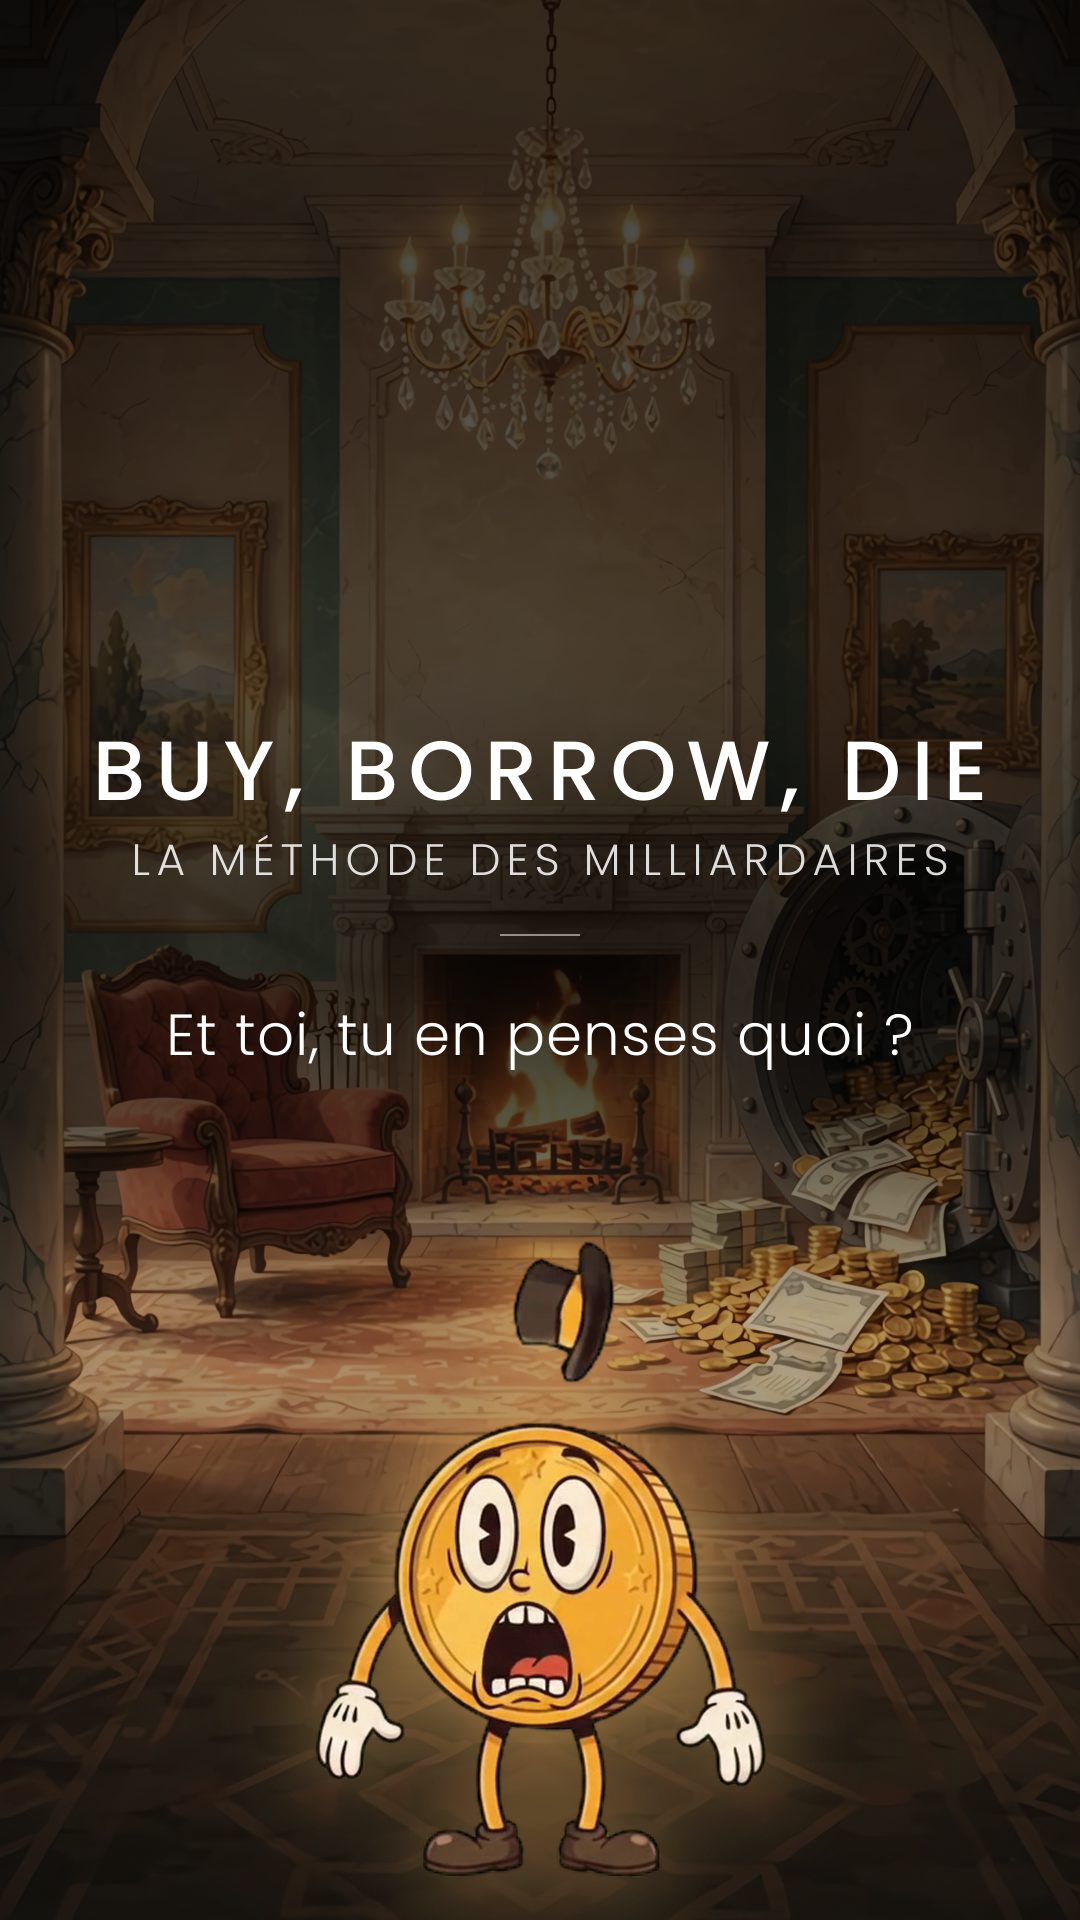
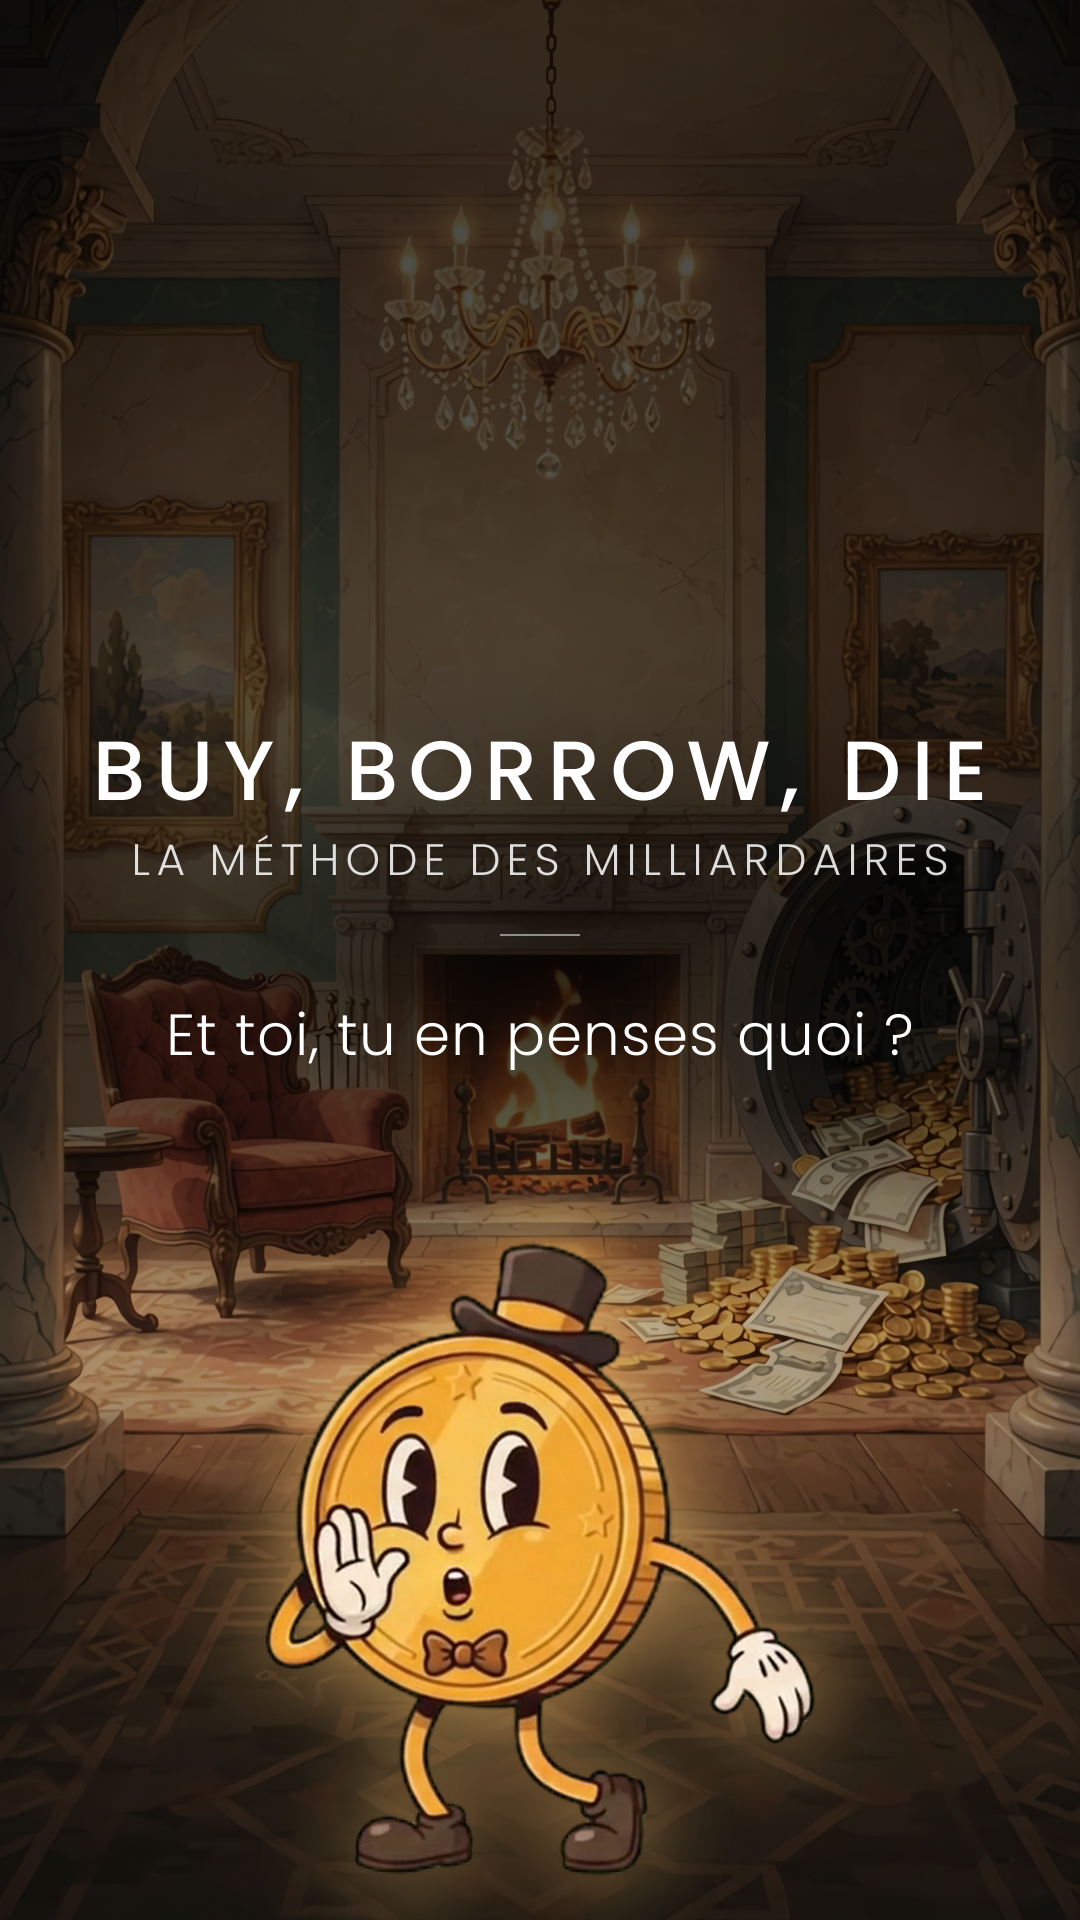
Buy, borrow, die v2 : plaques en verre 3D, désagrégation de la plus-value, réaction de joie, jauge PEA, couverture « secret »
Claude-Session: https://claude.ai/code/session_01WbC6AQNcmdmRg3XyxdySTb

Changed region(s): [[0.2139, 0.625, 0.7944, 1.0]]

diff --git a/episodes/2026-11-21_buy_borrow_die/video_col.py b/episodes/2026-11-21_buy_borrow_die/video_col.py
@@ -219,10 +219,13 @@ def twinkle(c, t, pts, r=22):
 def _fade(cv, f, a):
     tmp = cv.copy(); f(tmp); cv.paste(Image.blend(cv.convert('RGBA'), tmp.convert('RGBA'), clamp(a)))
 
-def plate(c, x, y, w, h, a):
-    """pastille sombre derrière un texte posé sur un décor chargé (lisibilité)"""
-    if a <= 0: return
-    rr(c, x-w/2, y-h/2, w, h, h/2); c.set_source_rgba(.13, .06, .16, .6*a); c.fill()
+_CV = None                                                    # image du décor en cours (posée par raw) : les plaques de verre s'y dessinent sous les textes
+def plate(c, x, y, w, h, a, mood='or'):
+    """plaque de verre 3D (scenes.tp, notre signature) derrière un texte, apparition et disparition en fondu"""
+    if a <= 0 or _CV is None: return
+    f = lambda cv_: S.tp(cv_, w, h, lambda kk, ww, hh: None, x, y, mood, rx=.03, bev=int(max(12, min(26, h*.3))))
+    if a < .999: _fade(_CV, f, a)
+    else: f(_CV)
 # ================= panneaux de verre (compteurs, jauges) =================
 def glass_counter(cv, t, t0, v1, t_a, t_b, sub, cy=780, w=860, h=230, colr=None, a=1.0, t1=None):
     k = t-t0
@@ -300,13 +303,23 @@ def row(cv, c, t, t0, y, txt, colr=CREAM, emo=None, sub=None, a=1.0, size=48, w=
     if sub: paint(c, sub, 520 if emo else 540, y+34, 28, a=ent(k-.2, .3)*a)
     if emo and k > .15: EMO.append((emo, 540+w/2-62, y, 58, al))
 EMO = []
-def smoke(c, t, t0, x0, x1, y):
-    """la barre se dissout en fumée : particules qui montent et s'estompent"""
-    for i in range(70):
-        u = (t-t0-(i % 10)*.05)/1.3
-        if not 0 < u < 1: continue
-        x = x0+(x1-x0)*((i*37) % 70)/70+30*math.sin(u*4+i); yy = y-260*ease(u)-(i % 5)*8; r_ = 10+30*u
-        c.arc(x, yy, r_, 0, 2*math.pi); c.set_source_rgba(.85, .8, .72, .45*(1-u)); c.fill()
+def dissolve_bar(c, t, t0, x0, x1, y, h, lab, dur=1.2, a=1.0):
+    """la barre « PLUS-VALUE » se désagrège de gauche à droite en poussière d'or qui s'envole (et scintille), au lieu d'un simple fondu"""
+    cs = 12; nx, ny = int((x1-x0)/cs)+1, int(h/cs)+1; rng_ = np.random.default_rng(7); noise = rng_.random((nx, ny)); drift = rng_.random((nx, ny))
+    keep = []
+    for i in range(nx):
+        for j in range(ny):
+            d = (i/nx)*dur*.75+noise[i, j]*dur*.25; u = (t-t0-d)/.9
+            cx_, cy_ = x0+i*cs, y-h/2+j*cs
+            if u <= 0: keep.append((cx_, cy_))
+            elif u < 1:
+                px = cx_+140*u+25*math.sin(6*u+i); py = cy_-(120+160*drift[i, j])*u**1.2; r_ = cs*(1-.7*u)
+                c.rectangle(px, py, r_, r_); c.set_source_rgba(1.0, .80+.12*drift[i, j], .35, a*(1-u)); c.fill()
+                if drift[i, j] > .93: c.arc(px, py, 3+4*(1-u), 0, 2*math.pi); c.set_source_rgba(1, 1, .9, a*(1-u)); c.fill()
+    if keep:
+        c.save()
+        for (cx_, cy_) in keep: c.rectangle(cx_, cy_, cs+.5, cs+.5)
+        c.clip(); gold_bar(c, x0, x1, y, h, a, lab); c.restore()
 def gold_bar(c, x0, x1, y, h, a, lab):
     rr(c, x0, y-h/2, x1-x0, h, 18); g = cairo.LinearGradient(0, y-h/2, 0, y+h/2)
     for st, cc in ((0, 'FFE27A'), (1, 'B97A12')): r_, g_, b_ = rgb(cc)[:3]; g.add_color_stop_rgba(st, r_, g_, b_, a)
@@ -415,10 +428,9 @@ def b_notaire(cv, c, t, k):
         prop(c, 'testament', 540, 560, h=320, k=t-(t0+.6), rot=-.04+.02*math.sin(t*1.6), a=a)
         if t > sh(50.3): row(cv, c, t, sh(50.3), 790, "LES ACTIONS À LEUR VALEUR DU JOUR", CREAM, w=960, size=40, a=a)
         if t > tE:
-            ab = (1-ent(t-(tE+.9), .7))*a
-            if ab > 0: gold_bar(c, 200, 880, 905, 92, ab*ent(t-tE, .2), "PLUS-VALUE")
-            if t > tE+.9: smoke(c, t, tE+.9, 200, 880, 905)
-            stamp(c, "EFFACÉE", 540, 905, 70, t, tE+1.3, a=a)
+            if t < tE+.7: gold_bar(c, 200, 880, 905, 92, a*ent(t-tE, .2), "PLUS-VALUE")
+            else: dissolve_bar(c, t, tE+.7, 200, 880, 905, 92, "PLUS-VALUE", a=a)
+            stamp(c, "EFFACÉE", 540, 905, 70, t, tE+1.9, a=a)
     else:
         def d(kk, ww, hh):
             S.text(kk, "DROITS DE SUCCESSION (ÉTATS-UNIS)", ww/2, 48, 'xb', 30, S.ICE, 'c', .9, 2)
@@ -450,10 +462,12 @@ def b_salon(cv, c, t, k):
         title(c, "PEA DE PLUS DE 5 ANS", t, sh(76.4), 350, 56, YEL)
     if t < tc+.3:
         a = 1-ent(t-tc, .3) if t > tc else 1
-        if t > sh(78.4): row(cv, c, t, sh(78.4), 450, f"0{NB}€ D'IMPÔT SUR LE REVENU", MINT, emo='✅', w=900, size=44, a=a)
-        if t > sh(80.0): paint(c, f"sur 100{NB}€ de gains retirés", 540, 578, 34, a=ent(t-sh(80.0), .3)*a)
-        glass_bar(cv, t, sh(80.0), [(.814, *MINTC, f"81,40{NB}€", "pour toi", sh(80.3), 'l'),
-                                    (.186, *REDC, f"18,60{NB}€", "prélèvements sociaux", sh(80.6), 'r')], cy=760, h=330, t1=tc+.3)
+        if t > sh(78.4): row(cv, c, t, sh(78.4), 430, f"0{NB}€ D'IMPÔT SUR LE REVENU", MINT, emo='✅', w=900, size=44, a=a)
+        if t > sh(79.9):
+            plate(c, 540, 540, 820, 88, ent(t-sh(79.9), .25)*a)
+            pop_text(c, f"SUR 100{NB}€ DE GAINS RETIRÉS", 540, 540, 48, t, sh(79.9), YEL, a=a, maxw=760)
+        glass_bar(cv, t, sh(80.2), [(.814, *MINTC, f"81,40{NB}€", "pour toi", sh(80.5), 'l'),
+                                    (.186, *REDC, f"18,60{NB}€", "prélèvements sociaux", sh(80.8), 'r')], cy=775, h=330, t1=tc+.3)
     if t > tc:
         pop_text(c, "TON CAPITAL", 540, 520, 64, t, tc+.3, CREAM)
         pop_text(c, "CONTINUE DE COMPOSER", 540, 610, 64, t, tc+.6, YEL, rot=-.02)
@@ -505,7 +519,8 @@ def raw(t):
     i = max(j for j, s_ in enumerate(SC) if t >= s_[0] or j == 0); a, b, f, dec = SC[i]
     img = decor_c(dec, t)
     cv = Image.fromarray(np.clip(img, 0, 255).astype(np.uint8)).convert('RGBA')
-    s, c = surface(); EMO.clear(); f(cv, c, t, max(0.0, t-a)); cv.alpha_composite(to_img(s))
+    global _CV
+    s, c = surface(); EMO.clear(); _CV = cv; f(cv, c, t, max(0.0, t-a)); _CV = None; cv.alpha_composite(to_img(s))
     for (ch, x, y, sz, al) in EMO:
         if al > .01:
             e = S.emoji(ch, int(sz)).copy()
@@ -538,7 +553,7 @@ def events():
     ev += [(T['buy']+.1, 'impact'), (T['buy']+.4, 'pop'), (sh(27.0), 'clack'), (sh(28.5), 'pop'), (sh(29.3), 'coin')]
     ev += [(T['borrow']+.1, 'impact'), (sh(31.6), 'pop'), (sh(32.4), 'swish'), (sh(32.9), 'pop'), (sh(34.6), 'thud'), (sh(35.9), 'coin')]
     ev += [(T['ellison']+.1, 'thud'), (sh(37.3), 'pop'), (sh(37.65), 'swish'), (sh(40.8), 'swish'), (sh(41.0), 'tick'), (sh(43.65), 'impact'), (sh(44.0), 'glint')]
-    ev += [(T['die']+.1, 'impact'), (T['die']+.6, 'pop'), (sh(50.3), 'pop'), (sh(51.48), 'fill1'), (sh(51.48)+.9, 'whoosh'), (sh(51.48)+1.3, 'gavel'), (sh(53.1), 'swish'), (sh(54.9), 'impact')]
+    ev += [(T['die']+.1, 'impact'), (T['die']+.6, 'pop'), (sh(50.3), 'pop'), (sh(51.48), 'fill1'), (sh(51.48)+.7, 'whoosh'), (sh(51.48)+1.0, 'glint'), (sh(51.48)+1.9, 'gavel'), (sh(53.1), 'swish'), (sh(54.9), 'impact')]
     ev += [(T['france']+.1, 'thud'), (sh(59.4), 'pop'), (sh(61.2), 'pop'), (sh(63.3), 'bonk'), (sh(66.4), 'thud'), (sh(68.4), 'pop'), (sh(69.3), 'gavel'), (sh(70.15), 'pop')]
     ev += [(T['pea']+.1, 'thud'), (sh(76.4), 'pop'), (sh(77.0), 'swish'), (sh(78.4), 'fill2'), (sh(80.5), 'fill0'), (sh(84.7)+.3, 'pop'), (sh(84.7)+.6, 'glint')]
     ev += [(T['risque']+.1, 'impact'), (sh(89.9), 'pop'), (sh(92.0), 'swish'), (sh(92.0)+.3, 'fill2'), (sh(92.0)+1.1, 'crash'), (sh(92.0)+2.0, 'bonk')]

diff --git a/episodes/2026-11-21_buy_borrow_die/video.py b/episodes/2026-11-21_buy_borrow_die/video.py
@@ -58,10 +58,10 @@ def _veo(nom):
     return nom if os.path.exists(f'{D}/../../mister_coin/veo/{nom}.mp4') else None
 NEUTRE = _veo('classique_parle_neutre') or EX
 MC = VeoCoin([(0.0, [QU], 'voix'), (T['chiffre'], [EX, CP], 'voix'), (T['trois'], [CO], 'voix'), (T['buy'], [EN], 'voix'), (T['borrow'], [BI], 'voix'),
-              (T['ellison'], [CP, SW], 'voix'), (T['die'], [IN, TR], 'voix'), (T['france'], [NEUTRE, PR], 'voix'), (T['pea'], [EN, SW], 'voix'),
+              (T['ellison'], [CP, SW], 'voix'), (T['die'], [EX, CO], 'voix'), (sh(53.04)-.05, [IN], 'voix'), (T['france'], [NEUTRE, PR], 'voix'), (T['pea'], [EN, SW], 'voix'),
               (T['risque'], [PR, IN], 'voix'), (T['fin'], [QU], 'voix')],
              voix=VOICE, duree=DUR, x=540, pieds=FEET, largeur_piece=170, lisse=True, variete=1.5, silence_min=7, coupe_silence=True)
 # réactions muettes jouées dans les silences (images f0 à f1 du clip, accélérées) : la banque lisse ne les gère pas, video_col les substitue
-RX = [(sh(19.37)+.08, 'classique_choc', 56, 160), (sh(52.68)+.1, 'classique_facepalm', 70, 170), (DUR_VOIX+.1, 'classique_pouce', 60, 165)]
+RX = [(sh(19.37)+.08, 'classique_choc', 56, 160), (sh(52.68)+.1, 'classique_joie', 88, 192), (DUR_VOIX+.1, 'classique_pouce', 60, 165)]
 RX_FIN = [sh(20.82)-.1, sh(53.04)-.1, DUR-.05]
 def events(): return sorted([(h-.05, 'hop') for h in (MC._global_sequence() and MC.hops)])

diff --git a/episodes/2026-11-21_buy_borrow_die/couverture.py b/episodes/2026-11-21_buy_borrow_die/couverture.py
@@ -1,5 +1,5 @@
 """Couverture de buy, borrow, die (style maison, lib/cards_lib.py) : salon du manoir assombri en haut, titre « BUY, BORROW, DIE »,
-sous-titre « LA MÉTHODE DES MILLIARDAIRES », question « Et toi, tu en penses quoi ? », Mister Coin choqué en bas avec un halo doré."""
+sous-titre « LA MÉTHODE DES MILLIARDAIRES », question « Et toi, tu en penses quoi ? », Mister Coin qui confie un secret en bas avec un halo doré."""
 import cairo, numpy as np, sys, os, subprocess
 HERE = os.path.dirname(os.path.abspath(__file__)); ROOT = os.path.abspath(os.path.join(HERE, '..', '..'))
 sys.path.insert(0, f'{ROOT}/lib'); sys.path.insert(0, f'{ROOT}/mister_coin')
@@ -27,7 +27,7 @@ cards.put = _q
 import veo_coin as VC
 path = f'{HERE}/couverture.png'; cards.card("BUY, BORROW, DIE", False, path, sub=("LA MÉTHODE DES MILLIARDAIRES",))
 im = Image.open(path).convert('RGBA')
-a, m = VC._key(np.asarray(still(f'{ROOT}/mister_coin/veo/classique_choc.mp4', 120, f'{TMP}/choc_couv.png')))
+a, m = VC._key(np.asarray(still(f'{ROOT}/mister_coin/veo/classique_parle_confidence.mp4', 130, f'{TMP}/confidence_couv.png')))
 ch = Image.fromarray(np.clip(a, 0, 255).astype(np.uint8)).convert('RGBA'); ch.putalpha(Image.fromarray((m*255).astype(np.uint8))); ch = ch.crop(ch.getbbox())
 hh = 640; ch = ch.resize((int(ch.width*hh/ch.height), hh), Image.LANCZOS)
 x0, y0 = (W-ch.width)//2, 1240
